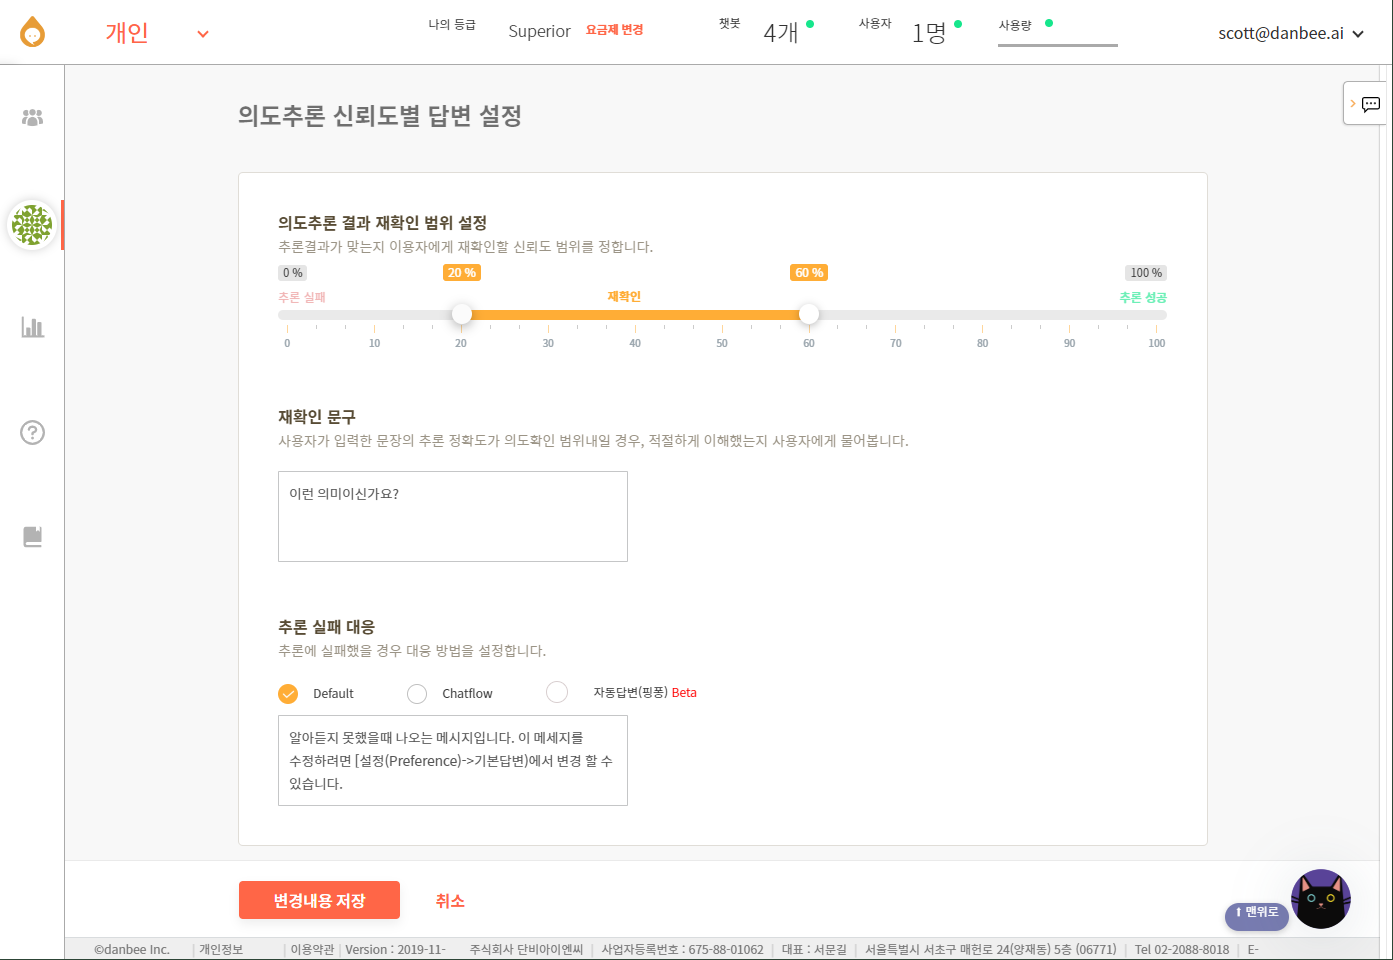
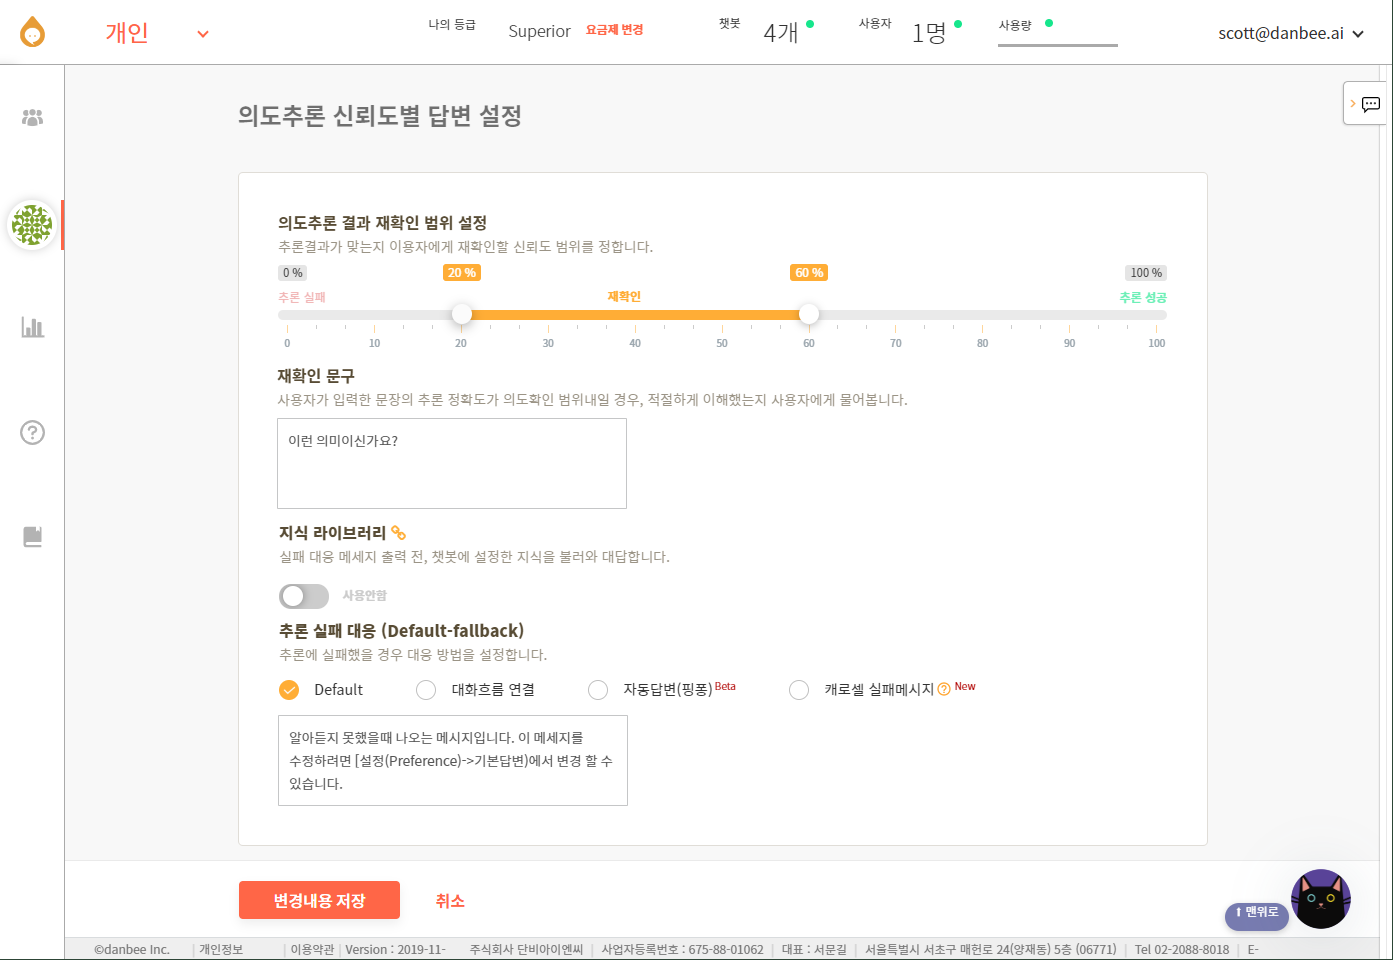
DANBEE-919 #comments 실패메시지 메뉴얼 캐로셀 메시지 추가 & 지식라이브러리 연결 설정

diff --git a/pages/danbeeDoc/G3_settings_nlu.md b/pages/danbeeDoc/G3_settings_nlu.md
@@ -37,6 +37,9 @@ next: {
 ### 재확인 문구
 재확인 문구는 챗봇이 사용자에게 의도 재확인을 시도할 때 사용할 메세지입니다.
 
+### 지식 라이브러리
+추론에 실패할 경우 실패 대응 전, 챗봇에 설정한 지식 FAQ에서 내용을 찾아 대답합니다.
+
 ### 추론 실패 대응
 챗봇이 의도를 분석한 결과 신뢰도가 설정한 값보다 낮아 추론 실패로 판단되었을 경우 대응할 방법을 설정합니다.
 >##### Default
@@ -49,6 +52,8 @@ next: {
 - 반말이 : 친근하고 스스럼 없는 말투
 - 사원이 : 정중한 말투
 
+>##### 캐로셀 실패메시지
+이미지와 버튼등의 다양한 카드 형태의 실패메세지를 표현합니다.
 
 ## NLU 추론 설정
 {% include image.html file="nlu_setting/1_0.PNG" %}
